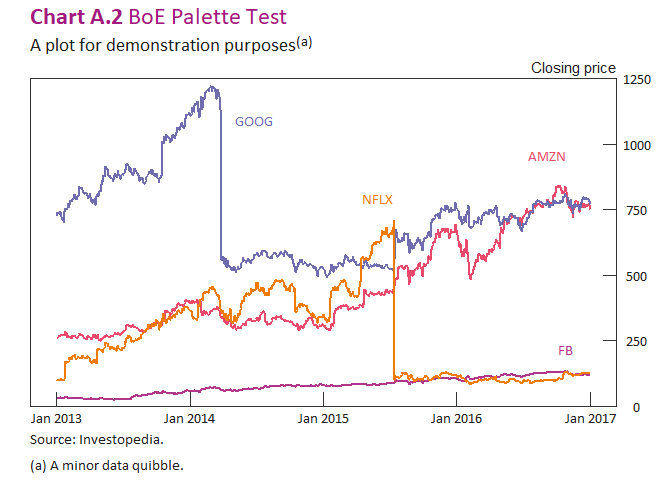
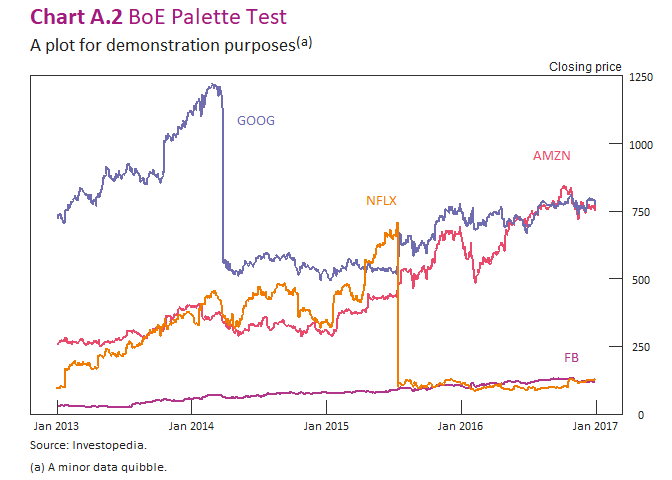
more example tweaKS..........

diff --git a/README.md b/README.md
@@ -203,7 +203,7 @@ fsr_chart_fang <- chart_fang +
     labels = boe_date_labels(),
     breaks = boe_breaks_date()
     ) +
-  theme_fsr_md() +
+  theme_fsr_md(axis_title_size = 9, axis_text_size = 9, caption_size = 9) +
   labs(title = "**Chart A.2** BoE Palette Test",
        subtitle = "A plot for demonstration purposes<sup>(a)</sup>",
        caption = caption_boe(source = "Investopedia", footnote = "A minor data quibble."))
